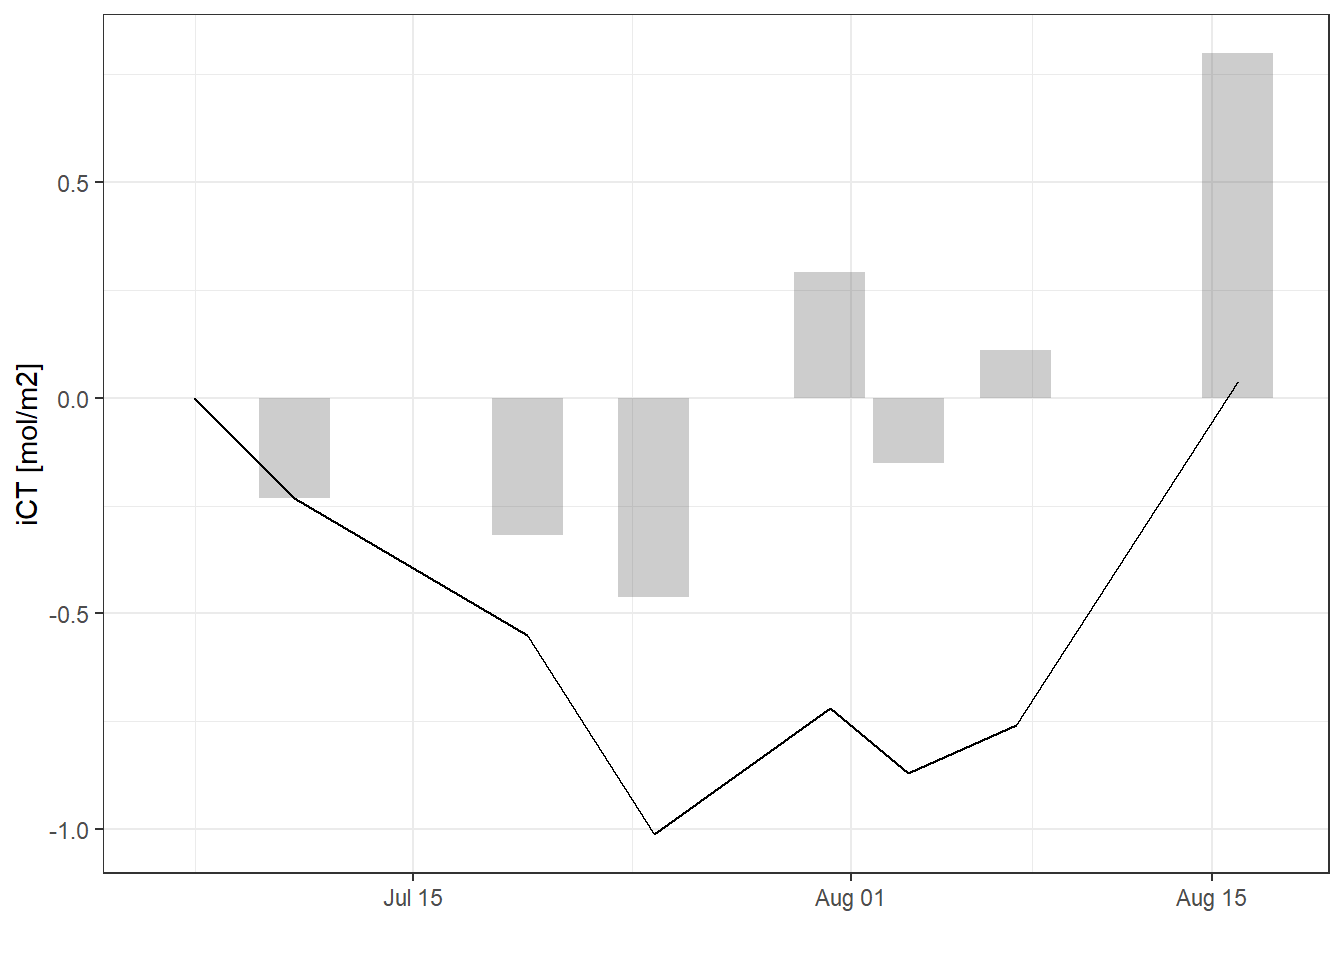
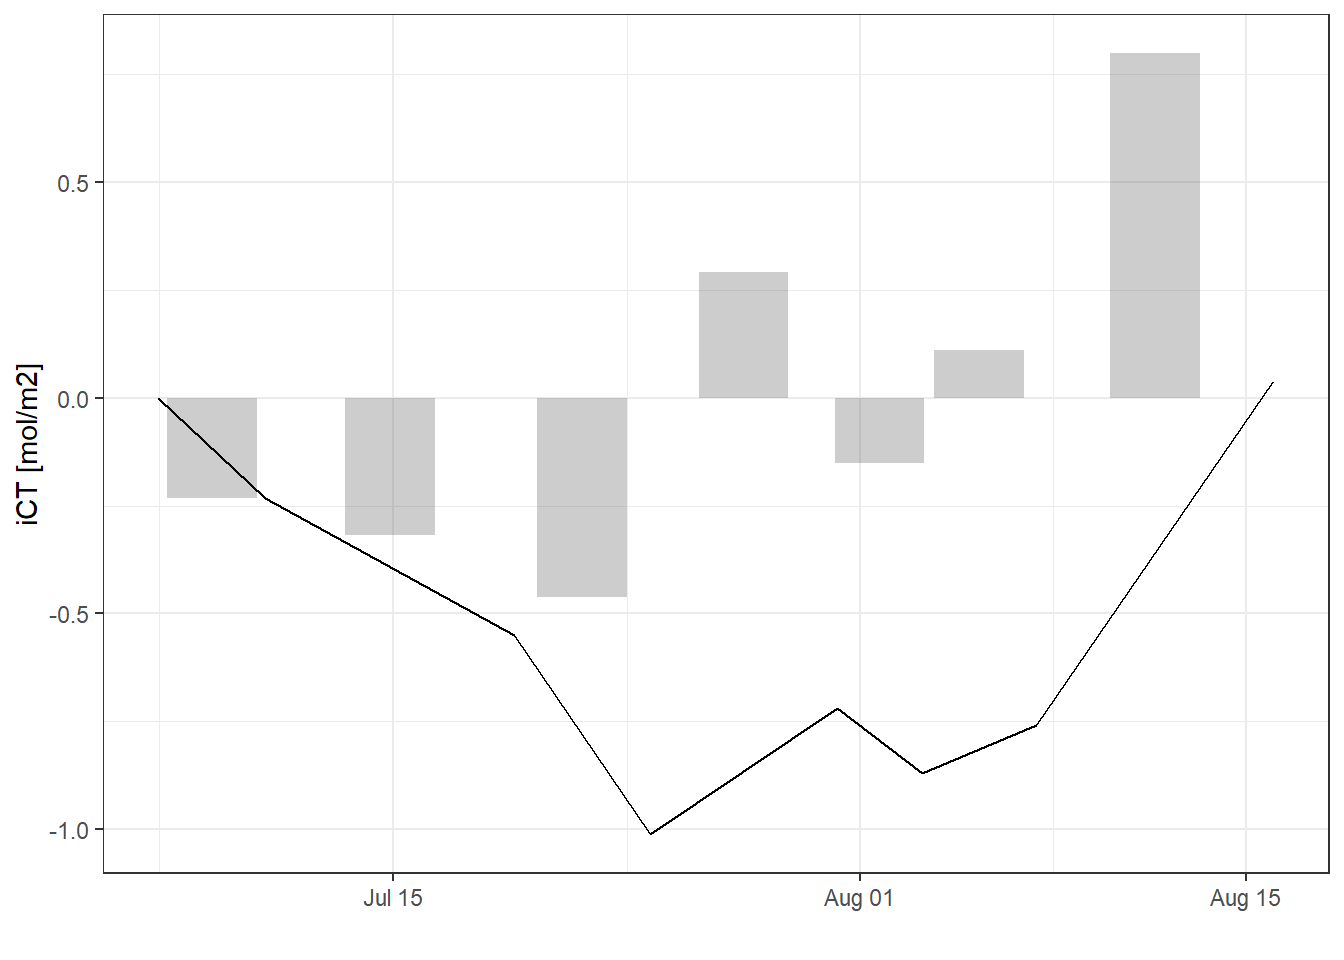
Build site.

diff --git a/docs/BloomSail_surface.html b/docs/BloomSail_surface.html
@@ -554,10 +554,10 @@ This reproducible <a href="http://rmarkdown.rstudio.com">R Markdown</a> analysis
 <div class="panel panel-default">
 <div class="panel-heading">
 <p class="panel-title">
-<a data-toggle="collapse" data-parent="#workflowr-checks" href="#strongRepositoryversionstrongahrefhttpsgithubcomjensdanielmuellerBloomSailtree50ab3132ac3d100b160b350184b6febcc85a06b4targetblank50ab313a"> <span class="glyphicon glyphicon-ok text-success" aria-hidden="true"></span> <strong>Repository version:</strong> <a href="https://github.com/jens-daniel-mueller/BloomSail/tree/50ab3132ac3d100b160b350184b6febcc85a06b4" target="_blank">50ab313</a> </a>
+<a data-toggle="collapse" data-parent="#workflowr-checks" href="#strongRepositoryversionstrongahrefhttpsgithubcomjensdanielmuellerBloomSailtree2ebefdfa5706d0a074eb0026acafb93f16963351targetblank2ebefdfa"> <span class="glyphicon glyphicon-ok text-success" aria-hidden="true"></span> <strong>Repository version:</strong> <a href="https://github.com/jens-daniel-mueller/BloomSail/tree/2ebefdfa5706d0a074eb0026acafb93f16963351" target="_blank">2ebefdf</a> </a>
 </p>
 </div>
[2 lines of base64/hex data omitted]
 <div class="panel-body">
 <p>
 Great! You are using Git for version control. Tracking code development and connecting the code version to the results is critical for reproducibility. The version displayed above was the version of the Git repository at the time these results were generated. <br><br> Note that you need to be careful to ensure that all relevant files for the analysis have been committed to Git prior to generating the results (you can use <code>wflow_publish</code> or <code>wflow_git_commit</code>). workflowr only checks the R Markdown file, but you know if there are other scripts or data files that it depends on. Below is the status of the Git repository when the results were generated:
@@ -596,7 +596,8 @@ There are no past versions. Publish this analysis with <code>wflow_publish()</co
 library(seacarb)
 library(oce)
 library(marelac)
-library(patchwork)</code></pre>
+library(patchwork)
+library(metR)</code></pre>
 <div id="approach" class="section level1">
 <h1><span class="header-section-number">1</span> Approach</h1>
 <p>In order to test how (and how well) the depth-integrated NCP estimates can be reproduced if only surface CO2 data were available, the BloomSail observations were restricted to those made in surface water and two reconstruction approaches were tested:</p>
@@ -607,7 +608,7 @@ library(patchwork)</code></pre>
 </div>
 <div id="sensor-data" class="section level1">
 <h1><span class="header-section-number">2</span> Sensor data</h1>
-<p>1m gridded, downcast profiles were used.</p>
+<p>1m gridded, downcast profiles, from which CO<sub>2</sub> data other than 3.5 m water depth were removed, were used.</p>
 <pre class="r"><code>ts_profiles_ID &lt;-
   read_csv(here::here(&quot;Data/_merged_data_files&quot;, &quot;ts_profiles_ID_long_cum_MLD.csv&quot;))
 
@@ -750,8 +751,9 @@ ts_profiles_ID &lt;- ts_profiles_ID %&gt;%
   pivot_longer(4:5, names_to = &quot;var&quot;, values_to = &quot;value_diff&quot;) %&gt;% 
   group_by(dep, var) %&gt;% 
   arrange(date_time_ID) %&gt;% 
-  mutate(diff_time  = as.numeric(date_time_ID - lag(date_time_ID)),
-         value_diff_daily = value_diff / diff_time,
+  mutate(date_time_ID_diff = as.numeric(date_time_ID - lag(date_time_ID)),
+         date_time_ID_ref  = date_time_ID - (date_time_ID - lag(date_time_ID))/2,
+         value_diff_daily = value_diff / date_time_ID_diff,
          value_cum = cumsum(value_diff)) %&gt;% 
   ungroup()</code></pre>
 </div>
@@ -785,39 +787,17 @@ ts_profiles_ID &lt;- ts_profiles_ID %&gt;%
   facet_wrap(~var, scales = &quot;free_x&quot;)</code></pre>
 <p><img src="figure/BloomSail_surface.Rmd/cumulative_changes_profiles-1.png" width="672" style="display: block; margin: auto;" /></p>
 </div>
-<div id="timeseries-1" class="section level2">
-<h2><span class="header-section-number">4.5</span> Timeseries</h2>
-<p>Total incremental and cumulative C<sub>T</sub> changes inbetween cruise dates were calculated for the upper 10 m of the water body.</p>
-<pre class="r"><code>iCT_10 &lt;- ts_profiles_ID_long %&gt;%
-  filter(dep &lt; 10, 
-         var == &quot;CT&quot;) %&gt;% 
-  select(ID, date_time_ID, CT_diff=value_diff, CT_cum=value_cum) %&gt;% 
-  group_by(ID, date_time_ID) %&gt;% 
-  summarise(CT_i_diff = sum(CT_diff)/1000,
-            CT_i_cum = sum(CT_cum)/1000) %&gt;% 
-  ungroup()
-
-iCT_10 %&gt;% 
-  ggplot()+
-  #geom_point(data = cruise_dates, aes(date_time_ID, 0), shape=21)+
-  geom_col(aes(date_time_ID, CT_i_diff),
-           position = &quot;dodge&quot;, alpha=0.3)+
-  geom_line(aes(date_time_ID, CT_i_cum))+
-  scale_color_viridis_d(name=&quot;Depth limit (m)&quot;)+
-  scale_fill_viridis_d(name=&quot;Depth limit (m)&quot;)+
-  labs(y=&quot;iCT [mol/m2]&quot;, x=&quot;&quot;)+
-  theme_bw()</code></pre>
-<p><img src="figure/BloomSail_surface.Rmd/integrated_NCP-1.png" width="672" style="display: block; margin: auto;" /></p>
-</div>
 <div id="hovmoeller-plots" class="section level2">
-<h2><span class="header-section-number">4.6</span> Hovmoeller plots</h2>
+<h2><span class="header-section-number">4.5</span> Hovmoeller plots</h2>
+<p>Hoevmoeller plots were generated for the reconstructed daily and cumulative changes in C<sub>T</sub>. Absolute values are not reproducible with this approach. Furthermore, it meets our expectations</p>
 <div id="daily-changes" class="section level3">
-<h3><span class="header-section-number">4.6.1</span> Daily changes</h3>
+<h3><span class="header-section-number">4.5.1</span> Daily changes</h3>
 <pre class="r"><code>bin_CT &lt;- 2.5
 
-df %&gt;% 
+ts_profiles_ID_long %&gt;%
+  filter(var == &quot;CT&quot;) %&gt;% 
   ggplot()+
-  geom_contour_fill(aes(x=date_time_ID, y=dep, z=diff_value_daily),
+  geom_contour_fill(aes(x=date_time_ID_ref, y=dep, z=value_diff_daily),
                     breaks = MakeBreaks(bin_CT),
                     col=&quot;black&quot;)+
   geom_point(aes(x=date_time_ID, y=c(24.5)), size=3, shape=24, fill=&quot;white&quot;)+
@@ -829,7 +809,58 @@ df %&gt;%
   labs(y=&quot;Depth (m)&quot;)+
   coord_cartesian(expand = 0)+
   theme(axis.title.x = element_blank(),
-        axis.text.x = element_blank())</code></pre>
+        axis.text.x = element_blank())
+
+rm(bin_CT)</code></pre>
+</div>
+<div id="cumulative-changes" class="section level3">
+<h3><span class="header-section-number">4.5.2</span> Cumulative changes</h3>
+<pre class="r"><code>bin_CT &lt;- 20
+
+ts_profiles_ID_long %&gt;%
+  filter(var == &quot;CT&quot;) %&gt;% 
+  ggplot()+
+  geom_contour_fill(aes(x=date_time_ID, y=dep, z=value_cum),
+                    breaks = MakeBreaks(bin_CT),
+                    col=&quot;black&quot;)+
+  geom_point(aes(x=date_time_ID, y=c(24.5)), size=3, shape=24, fill=&quot;white&quot;)+
+  scale_fill_divergent(breaks = MakeBreaks(bin_CT),
+                       guide = &quot;colorstrip&quot;,
+                       name=&quot;CT (µmol/kg)&quot;)+
+  scale_y_reverse()+
+  theme_bw()+
+  labs(y=&quot;Depth (m)&quot;)+
+  coord_cartesian(expand = 0)+
+  theme(axis.title.x = element_blank(),
+        axis.text.x = element_blank())
+
+
+rm(bin_CT)</code></pre>
+</div>
+</div>
+<div id="ict-time-series" class="section level2">
+<h2><span class="header-section-number">4.6</span> iC<sub>T</sub> time series</h2>
+<p>Total incremental and cumulative C<sub>T</sub> changes inbetween cruise dates were calculated for the upper 10 m of the water body.</p>
+<pre class="r"><code>iCT_10 &lt;- ts_profiles_ID_long %&gt;%
+  filter(dep &lt; 10, 
+         var == &quot;CT&quot;) %&gt;% 
+  select(ID, date_time_ID, date_time_ID_ref, CT_diff=value_diff, CT_cum=value_cum) %&gt;% 
+  group_by(ID, date_time_ID, date_time_ID_ref) %&gt;% 
+  summarise(CT_i_diff = sum(CT_diff)/1000,
+            CT_i_cum = sum(CT_cum)/1000) %&gt;% 
+  ungroup()
+
+iCT_10 %&gt;% 
+  ggplot()+
+  #geom_point(data = cruise_dates, aes(date_time_ID, 0), shape=21)+
+  geom_col(aes(date_time_ID_ref, CT_i_diff),
+           position = &quot;dodge&quot;, alpha=0.3)+
+  geom_line(aes(date_time_ID, CT_i_cum))+
+  scale_color_viridis_d(name=&quot;Depth limit (m)&quot;)+
+  scale_fill_viridis_d(name=&quot;Depth limit (m)&quot;)+
+  labs(y=&quot;iCT [mol/m2]&quot;, x=&quot;&quot;)+
+  theme_bw()</code></pre>
+<p><img src="figure/BloomSail_surface.Rmd/integrated_NCP-1.png" width="672" style="display: block; margin: auto;" /></p>
 <br>
 <p>
 <button type="button" class="btn btn-default btn-workflowr btn-workflowr-sessioninfo" data-toggle="collapse" data-target="#workflowr-sessioninfo" style="display: block;">
@@ -853,28 +884,39 @@ attached base packages:
 [1] stats     graphics  grDevices utils     datasets  methods   base     
 
 other attached packages:
- [1] patchwork_1.0.0 marelac_2.1.9   shape_1.4.4     seacarb_3.2.12 
- [5] oce_1.2-0       gsw_1.0-5       testthat_2.3.1  forcats_0.4.0  
- [9] stringr_1.4.0   dplyr_0.8.3     purrr_0.3.3     readr_1.3.1    
-[13] tidyr_1.0.0     tibble_2.1.3    ggplot2_3.3.0   tidyverse_1.3.0
+ [1] metR_0.5.0      patchwork_1.0.0 marelac_2.1.9   shape_1.4.4    
+ [5] seacarb_3.2.12  oce_1.2-0       gsw_1.0-5       testthat_2.3.1 
+ [9] forcats_0.4.0   stringr_1.4.0   dplyr_0.8.3     purrr_0.3.3    
+[13] readr_1.3.1     tidyr_1.0.0     tibble_2.1.3    ggplot2_3.3.0  
+[17] tidyverse_1.3.0
 
 loaded via a namespace (and not attached):
- [1] Rcpp_1.0.2        lubridate_1.7.4   here_0.1          lattice_0.20-35  
- [5] assertthat_0.2.1  zeallot_0.1.0     rprojroot_1.3-2   digest_0.6.22    
- [9] R6_2.4.0          cellranger_1.1.0  backports_1.1.5   reprex_0.3.0     
-[13] evaluate_0.14     httr_1.4.1        pillar_1.4.2      rlang_0.4.5      
-[17] readxl_1.3.1      rstudioapi_0.10   rmarkdown_2.0     labeling_0.3     
-[21] munsell_0.5.0     broom_0.5.3       compiler_3.5.0    httpuv_1.5.2     
-[25] modelr_0.1.5      xfun_0.10         pkgconfig_2.0.3   htmltools_0.4.0  
-[29] tidyselect_0.2.5  workflowr_1.6.0   viridisLite_0.3.0 crayon_1.3.4     
-[33] dbplyr_1.4.2      withr_2.1.2       later_1.0.0       grid_3.5.0       
-[37] nlme_3.1-137      jsonlite_1.6      gtable_0.3.0      lifecycle_0.1.0  
-[41] DBI_1.0.0         git2r_0.26.1      magrittr_1.5      scales_1.0.0     
-[45] cli_1.1.0         stringi_1.4.3     fs_1.3.1          promises_1.1.0   
-[49] xml2_1.2.2        ellipsis_0.3.0    generics_0.0.2    vctrs_0.2.0      
-[53] tools_3.5.0       glue_1.3.1        hms_0.5.2         yaml_2.2.0       
-[57] colorspace_1.4-1  rvest_0.3.5       knitr_1.26        haven_2.2.0      </code></pre>
-</div>
+ [1] nlme_3.1-137         bitops_1.0-6         fs_1.3.1            
+ [4] lubridate_1.7.4      httr_1.4.1           rprojroot_1.3-2     
+ [7] tools_3.5.0          backports_1.1.5      R6_2.4.0            
+[10] DBI_1.0.0            colorspace_1.4-1     withr_2.1.2         
+[13] sp_1.3-2             tidyselect_0.2.5     gridExtra_2.3       
+[16] compiler_3.5.0       git2r_0.26.1         cli_1.1.0           
+[19] rvest_0.3.5          xml2_1.2.2           labeling_0.3        
+[22] scales_1.0.0         checkmate_1.9.4      digest_0.6.22       
+[25] foreign_0.8-70       rmarkdown_2.0        pkgconfig_2.0.3     
+[28] htmltools_0.4.0      dbplyr_1.4.2         maps_3.3.0          
+[31] rlang_0.4.5          readxl_1.3.1         rstudioapi_0.10     
+[34] generics_0.0.2       jsonlite_1.6         RCurl_1.95-4.12     
+[37] magrittr_1.5         Formula_1.2-3        dotCall64_1.0-0     
+[40] Matrix_1.2-14        Rcpp_1.0.2           munsell_0.5.0       
+[43] lifecycle_0.1.0      stringi_1.4.3        yaml_2.2.0          
+[46] plyr_1.8.4           grid_3.5.0           maptools_0.9-8      
+[49] formula.tools_1.7.1  promises_1.1.0       crayon_1.3.4        
+[52] lattice_0.20-35      haven_2.2.0          hms_0.5.2           
+[55] zeallot_0.1.0        knitr_1.26           pillar_1.4.2        
+[58] reprex_0.3.0         glue_1.3.1           evaluate_0.14       
+[61] data.table_1.12.6    modelr_0.1.5         operator.tools_1.6.3
+[64] vctrs_0.2.0          spam_2.3-0.2         httpuv_1.5.2        
+[67] cellranger_1.1.0     gtable_0.3.0         assertthat_0.2.1    
+[70] xfun_0.10            broom_0.5.3          later_1.0.0         
+[73] viridisLite_0.3.0    memoise_1.1.0        fields_9.9          
+[76] workflowr_1.6.0      ellipsis_0.3.0       here_0.1            </code></pre>
 </div>
 </div>
 </div>
